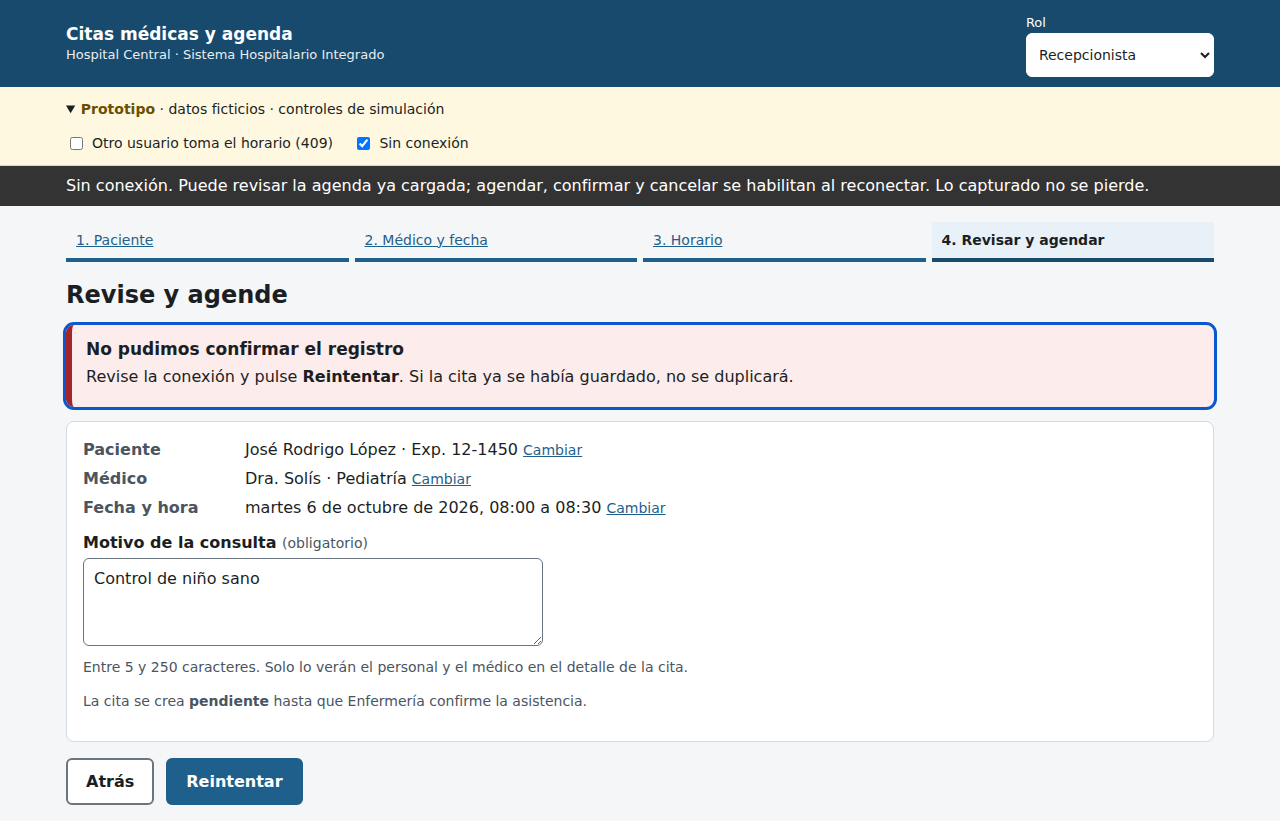
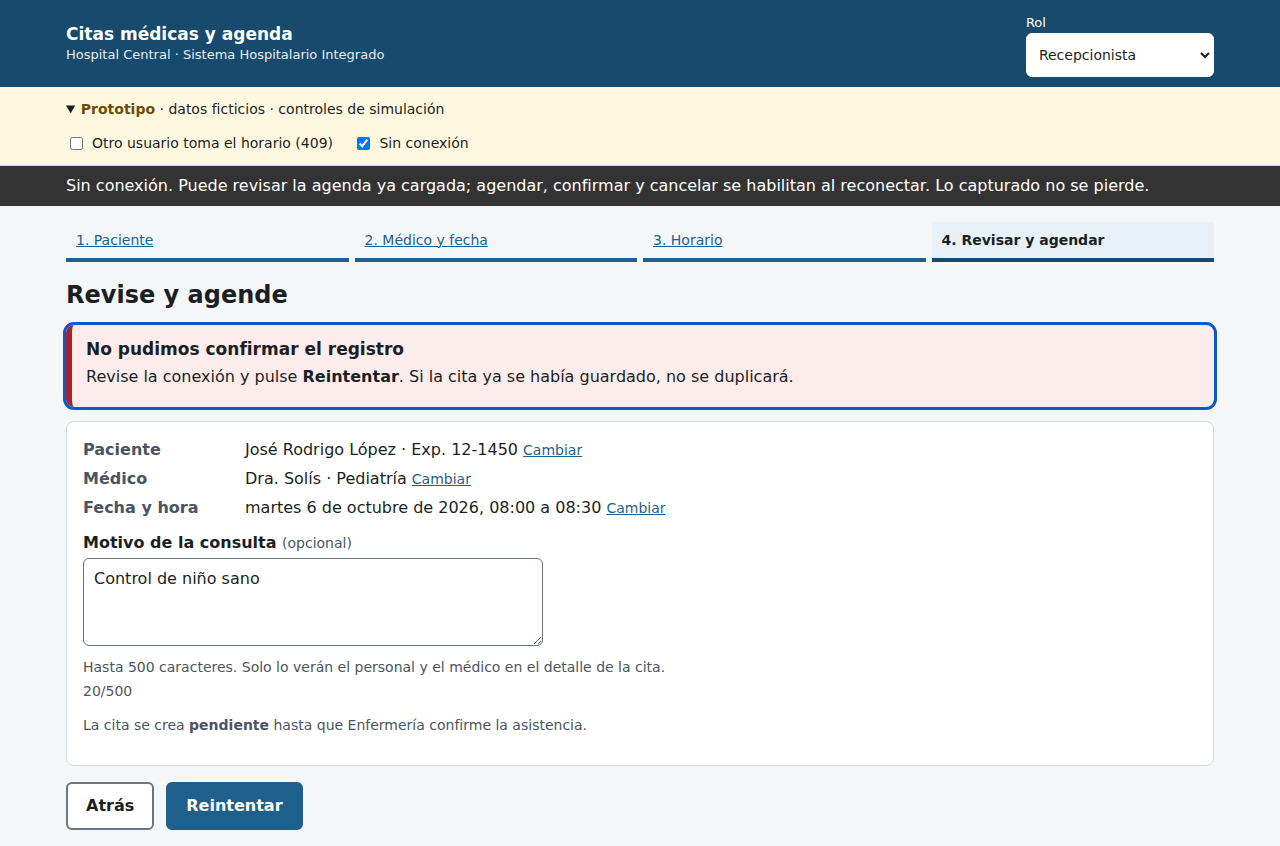
docs(week-11): align with backend rules, add scope, validation and defense guide
Claude-Session: https://claude.ai/code/session_014RXxsV1XqAAnUUTQ3spLue

Changed region(s): [[0.0, 0.0305, 1.0, 0.7308], [0.0625, 0.7613, 0.5312, 0.8222], [0.0625, 0.8526, 0.4688, 0.8831]]

diff --git a/prototipo/pruebas/verificar.py b/prototipo/pruebas/verificar.py
@@ -157,8 +157,19 @@ with sync_playwright() as p:
     inv = pg.get_attribute("#reasonCancel", "aria-invalid")
     desc = pg.get_attribute("#reasonCancel", "aria-describedby") or ""
     txt = pg.inner_text("#reasonCancelErr")
-    registrar("H-08", "El error del motivo está asociado (aria-describedby, aria-invalid) y dice qué falta", inv == "true" and "reasonCancelErr" in desc and "5 caracteres" in txt, txt)
-    pg.click("#btnKeep")
+    registrar("H-08", "El error del motivo está asociado (aria-describedby, aria-invalid) y dice qué falta", inv == "true" and "reasonCancelErr" in desc and "3 caracteres" in txt, txt)
+
+    # Reglas iguales a los FormRequest del backend
+    pg.fill("#reasonCancel", "ab"); pg.click("#btnDoCancel")
+    rechaza_2 = pg.is_visible("#reasonCancelErr")
+    registrar("BACKEND", "Cancelar con 2 caracteres se rechaza (CancelAppointmentRequest pide mínimo 3)", rechaza_2)
+    registrar("BACKEND", "El motivo de cancelación admite hasta 500 caracteres", pg.get_attribute("#reasonCancel", "maxlength") == "500")
+    pg.fill("#reasonCancel", "abc"); pg.click("#btnDoCancel"); pg.wait_for_selector(".alert.ok")
+    registrar("BACKEND", "Cancelar con 3 caracteres se acepta", "Cancelada" in pg.inner_text("main"))
+    hasta_paso4(pg, "Cifuentes", "14:00")
+    registrar("BACKEND", "El motivo de la consulta es opcional y admite hasta 500 caracteres (StoreAppointmentRequest)", pg.get_attribute("#motivo", "maxlength") == "500")
+    pg.click("#n4"); pg.wait_for_selector("#okPanel")
+    registrar("BACKEND", "Se puede agendar sin motivo de consulta", pg.is_visible("#okPanel"))
 
     # H-07: fechas con día de la semana y mes en letras
     pg.goto(URL + "#/cita/182"); cuerpo = pg.inner_text("main")

diff --git a/docs/semana-11-prototipo/DECLARACION_IA.md b/docs/semana-11-prototipo/DECLARACION_IA.md
@@ -1,41 +1,67 @@
 # Declaración de uso de inteligencia artificial — Semana 11
 
+## Identificación
+
 | Dato | Información |
 |---|---|
 | Módulo | ASII-05 — Citas médicas y agenda |
 | Estudiante | Eddy Adolfo Castro Véliz |
 | Código | 1890-23-16857 |
+| GitHub | EddCastro |
+| Issue | #5 |
 | Semana | 11 — Mejores prácticas para diseño móvil/web |
+| Rama | `feature/week-11-prototipo` |
 
 ## Herramienta utilizada
 
-Claude, de Anthropic, como apoyo al análisis, a la redacción y a la generación
-de diagramas y maquetas.
+Claude, de Anthropic, empleada como apoyo al análisis, al diseño, a la
+redacción y a la generación de diagramas, maquetas y scripts de verificación.
 
-## Propósito
+La herramienta trabajó sobre una copia del repositorio en un entorno aislado.
+La revisión, la publicación de las ramas y la apertura de los pull requests
+corresponden al estudiante.
+
+## Propósito del uso
 
 - Completar el prototipo navegable con enrutamiento por pasos, roles y simulación de errores.
 - Escribir el script de verificación con Playwright y axe-core ligado al backlog de la semana 9.
 - Generar las capturas desktop y móvil y el mapa de navegación.
 
+## Prompts relevantes
+
+1. Construir un prototipo navegable desktop y móvil del flujo con camino feliz y un error crítico de concurrencia.
+2. Mantener los roles de la matriz de la semana 5 y los estados del dominio.
+3. Escribir una verificación automática por cada criterio verificable del backlog de la semana 9.
+4. Comprobar que las reglas de los campos coincidan con los FormRequest del backend.
+5. Generar el mapa de navegación y las capturas de cada paso en ambos tamaños.
+
 ## Contenido aceptado
 
-- El error de concurrencia (409) como error crítico del prototipo.
+- El error de concurrencia como error crítico del prototipo.
 - La trampa de foco en los diálogos, agregada después de que la verificación detectara que Tab salía del diálogo.
-- La verificación automatizada como evidencia de cada criterio del backlog.
+- La verificación automatizada como evidencia de cada criterio del backlog y de las reglas del backend.
 
 ## Contenido modificado o rechazado
 
 - Se descartó usar Figma u otra herramienta externa: un prototipo HTML se abre sin cuentas y se puede verificar automáticamente.
 - Se descartó conectar el prototipo al backend Laravel: la consigna pide un prototipo del flujo, no la integración.
-- Se descartó ocultar el límite del control nativo de fecha; se documenta y se compensa con la fecha escrita en letras.
+- Se descartó presentar el 409 como respuesta actual del backend; se documenta como diseño propuesto.
+
+## Errores detectados y corregidos
+
+| Hallazgo | Corrección |
+|---|---|
+| La primera verificación falló en H-09: con Tab el foco salía del diálogo de cancelación. | Se agregó la trampa de foco en los diálogos; la verificación pasó a cumplir. |
+| La comprobación de H-01 solo veía citas pendientes porque la agenda mostraba el día de la cita nueva. | La prueba cambia a la fecha con los tres estados antes de comprobar. |
+| Las capturas de escritorio cortaban los botones inferiores. | Se capturan a página completa. |
 
 ## Validación humana
 
-El estudiante recorrió el prototipo en escritorio y en teléfono con los tres roles, ejecutó la verificación automatizada (35 de 35 criterios) y revisó cada captura.
+El estudiante recorrió el prototipo en escritorio y en teléfono con los tres roles, ejecutó la verificación automatizada (40 de 40 criterios, código de salida `0`), validó el mapa con `-checkonly` (código de salida `0`) y revisó cada captura.
 
 ## Responsabilidad académica
 
-Las decisiones de diseño y la preparación para la defensa oral corresponden al
-estudiante, quien asume la responsabilidad académica sobre el contenido
+La inteligencia artificial se empleó como herramienta de apoyo. El diseño, las
+decisiones, la validación y la preparación para la defensa oral corresponden
+al estudiante, quien asume la responsabilidad académica sobre el contenido
 entregado.

diff --git a/docs/semana-11-prototipo/verificacion.md b/docs/semana-11-prototipo/verificacion.md
@@ -5,7 +5,7 @@ El prototipo se verificó con un script automatizado
 usa Playwright para recorrerlo y axe-core para auditar WCAG. Cada criterio
 verificable del backlog de la semana 9 tiene al menos una comprobación.
 
-**Resultado: 35 de 35 criterios cumplidos.** El detalle generado por el script
+**Resultado: 40 de 40 criterios cumplidos.** El detalle generado por el script
 está en [`verificacion-resultados.md`](verificacion-resultados.md).
 
 ## 1. Cierre del backlog de la semana 9
@@ -19,7 +19,7 @@ está en [`verificacion-resultados.md`](verificacion-resultados.md).
 | H-09 foco del diálogo | P2 | Foco inicial en el motivo, trampa de Tab, Escape, retorno del foco | Foco inicial, 8 Tab dentro, Escape devuelve el foco a "Cancelar cita" | Cerrado |
 | H-05 éxito temporal | P2 | Panel persistente con código y `role="status"` | Visible 6 s después (antes duraba 5 s) | Cerrado |
 | H-02 contraste ocupado | P2 | Texto `#595959` sobre `#eceff2`, borde punteado, palabra "Ocupado" | Texto 6.07:1, borde 4.69:1 | Cerrado |
-| H-08 obligatorio genérico | P3 | "(obligatorio)" en texto; error específico con `aria-describedby` y `aria-invalid` | Mensaje "…al menos 5 caracteres", asociado al campo | Cerrado |
+| H-08 obligatorio genérico | P3 | "(obligatorio)" u "(opcional)" en texto; error específico con `aria-describedby` y `aria-invalid` | Mensaje "…al menos 3 caracteres", asociado al campo | Cerrado |
 | H-07 fecha ambigua | P3 | "martes 6 de octubre de 2026" / "mar 6 oct 2026" | Ninguna fecha dd/mm/aaaa en el texto | Cerrado |
 | H-10 ayuda sin nombre | P3 | Botón "¿Por qué no veo un horario?" | Abre con Enter | Cerrado |
 | H-11 borde secundario | P3 | Borde `#6b7580` | 4.69:1 | Cerrado |
@@ -39,7 +39,26 @@ fecha se escribe la fecha completa en letras.
 Coincide con la matriz de permisos del contrato de API (semana 5) y con los
 user flows (semana 8).
 
-## 3. Consistencia de estados
+## 3. Consistencia con las reglas del backend
+
+La interfaz no pide más ni menos que el servidor. Las reglas se tomaron de los
+`FormRequest` de la rama `feature/asii-05-semana-06-parcial-eddcastro`.
+
+| Regla del backend | Comportamiento del prototipo | Verificado |
+|---|---|:-:|
+| Motivo de cancelación obligatorio, 3 a 500 caracteres (`CancelAppointmentRequest`) | Rechaza 2 caracteres, acepta 3, límite 500 | Sí |
+| Motivo de consulta opcional, máximo 500 (`StoreAppointmentRequest`) | Se agenda sin motivo; límite 500 con contador | Sí |
+| Duración de 5 a 480 minutos | Ofrece 15, 30, 45 y 60 | Por diseño |
+| Fecha futura (RN-01) | El calendario no admite fechas pasadas | Por diseño |
+| Horario ocupado | Muestra el conflicto como 409 `APPOINTMENT_SLOT_TAKEN` | Ver nota |
+
+**Nota sobre el 409.** Hoy el backend responde **422** con solo `message`
+cuando el horario está ocupado. El prototipo muestra el comportamiento del
+diseño propuesto en la semana 7 (`ErrorMapper` con los códigos del contrato de
+la semana 5). La experiencia del usuario sería la misma con el 422 actual si
+la interfaz reconoce el mensaje, pero el diseño no depende del texto.
+
+## 4. Consistencia de estados
 
 | Estado | Se ve igual en | Transiciones permitidas |
 |---|---|---|
@@ -51,7 +70,7 @@ Las reglas son las del dominio (`Appointment::confirm()` y `cancel()`): una
 cita cancelada no se confirma ni se cancela de nuevo, y una confirmada no se
 confirma otra vez.
 
-## 4. Accesibilidad
+## 5. Accesibilidad
 
 | Verificación | Resultado |
 |---|---|
@@ -64,14 +83,14 @@ confirma otra vez.
 | Movimiento reducido | Animación del esqueleto desactivada con `prefers-reduced-motion` |
 | Errores de JavaScript durante el recorrido | 0 en escritorio y móvil |
 
-## 5. Conexión limitada
+## 6. Conexión limitada
 
 | Verificación | Resultado |
 |---|---|
 | Sin conexión: botón "Reintentar" y motivo conservado | Cumple |
 | Al reconectar y reintentar se crea exactamente una cita | Cumple (1 cita) |
 
-## 6. Mejores prácticas aplicadas
+## 7. Mejores prácticas aplicadas
 
 | Práctica | Aplicación |
 |---|---|

diff --git a/docs/semana-11-prototipo/GUIA_DEFENSA_ORAL.md b/docs/semana-11-prototipo/GUIA_DEFENSA_ORAL.md
@@ -1,0 +1,92 @@
+# Guía de defensa oral — Semana 11, Prototipo navegable
+
+## Datos generales
+
+- **Módulo:** ASII-05 — Citas médicas y agenda
+- **Estudiante:** Eddy Adolfo Castro Véliz
+- **Prototipo:** `prototipo/index.html`
+
+## 1. ¿Qué se entregó?
+
+Un prototipo navegable en HTML que funciona en escritorio y en teléfono, su
+mapa de navegación, capturas de cada paso del camino feliz y del error
+crítico, y una verificación automatizada con 40 criterios.
+
+## 2. ¿Por qué HTML y no Figma?
+
+La consigna del proyecto acepta "Figma, Canva, Excalidraw o equivalente". Un
+prototipo HTML se abre sin cuenta, funciona en el teléfono real, tiene
+navegación y teclado reales y se puede verificar de forma automática. Figma no
+permite comprobar con un script que el foco o el contraste sean correctos.
+
+## 3. ¿Cuál es el camino feliz?
+
+Agenda → Nueva cita → paciente → médico y fecha → horario → revisar →
+Agendar → panel de éxito con el código de la cita en estado pendiente.
+
+## 4. ¿Cuál es el error crítico y por qué ese?
+
+Que otro usuario reserve el mismo horario entre la consulta y el envío. Es el
+error que el módulo previene en el backend con el bloqueo y el índice de la
+semana 6; si la interfaz lo muestra mal, el usuario no se entera o repite el
+intento sobre un horario que ya no existe.
+
+## 5. ¿Cómo se simula?
+
+Con la casilla "Otro usuario toma el horario (409)" de la franja de controles
+del prototipo. Al pulsar Agendar, el prototipo registra una cita ajena en ese
+horario y responde con el conflicto.
+
+## 6. ¿El backend responde 409 hoy?
+
+No. Hoy responde 422 con un mensaje. El prototipo muestra el diseño propuesto
+en la semana 7, donde `ErrorMapper` emite 409 `APPOINTMENT_SLOT_TAKEN` según el
+contrato de la semana 5. Se declara en `verificacion.md` para no presentarlo
+como implementado.
+
+## 7. ¿Cómo se mantiene la consistencia de roles?
+
+El selector de rol cambia lo que se ve: la Recepcionista agenda, confirma y
+cancela; la Enfermera solo confirma y entra con el filtro "Pendientes"; el
+Médico ve su agenda en solo lectura. Es la matriz de la semana 5 y la
+verificación lo comprueba.
+
+## 8. ¿Cómo se comprobó la accesibilidad?
+
+Con axe-core en ocho pantallas (cuatro por tamaño), 0 infracciones A y AA;
+recorriendo el flujo completo solo con teclado; midiendo el contraste en el
+navegador; y comprobando que a 320 px no haya desplazamiento horizontal.
+
+## 9. ¿Qué pasó con los once hallazgos de la semana 9?
+
+Los once quedaron cerrados y cada uno tiene al menos una comprobación
+automática. Uno de ellos, la trampa de foco del diálogo (H-09), falló en la
+primera verificación y se corrigió antes de entregar.
+
+## 10. ¿Las reglas de los campos son las del backend?
+
+Sí. El motivo de cancelación pide de 3 a 500 caracteres, como
+`CancelAppointmentRequest`, y el motivo de la consulta es opcional hasta 500,
+como `StoreAppointmentRequest`. La verificación incluye cinco comprobaciones
+de esas reglas.
+
+## Modificación práctica
+
+Podrían pedir agregar el rol Admin al selector. En `prototipo/index.html`:
+
+    <option value="admin">Admin</option>
+
+y en el objeto de permisos:
+
+    admin: { crear: true, confirmar: true, cancelar: true },
+
+Luego se agrega una comprobación en `prototipo/pruebas/verificar.py`
+(sección ROLES) y se ejecuta la verificación.
+
+## Resumen para exposición
+
+El prototipo recorre el flujo completo en escritorio y móvil con los tres
+roles. El error crítico es el conflicto de concurrencia, y la interfaz dice
+qué horario se perdió sin perder lo capturado. Cada corrección de la semana 9
+y cada regla de los formularios del backend tiene una comprobación automática:
+40 de 40 cumplidas.

diff --git a/docs/semana-11-prototipo/README.md b/docs/semana-11-prototipo/README.md
@@ -8,6 +8,7 @@ Módulo **ASII-05 — Citas médicas y agenda**.
 | Código | 1890-23-16857 |
 | GitHub | EddCastro |
 | Correo | ecastrov5@miumg.edu.gt |
+| Issue | #5 |
 | Rama | `feature/week-11-prototipo` |
 
 ## Tarea
@@ -26,6 +27,14 @@ consistencia de roles, estados y accesibilidad.
 
 Es HTML, CSS y JavaScript sin librerías. Los datos son ficticios y viven en
 memoria: al recargar la página se reinician.
+
+## Estado
+
+El prototipo **no está conectado al backend**: simula sus respuestas. Las
+reglas de los campos son las mismas de los `FormRequest` de Laravel, y el
+error de horario ocupado se muestra con el código 409 del diseño propuesto en
+la semana 7 (hoy el backend responde 422). Ver
+[`verificacion.md`](verificacion.md), sección 3.
 
 ### Cómo recorrerlo
 
@@ -47,6 +56,7 @@ memoria: al recargar la página se reinician.
 | Capturas desktop y móvil del camino feliz | [`capturas/`](capturas) — pasos 01 a 07 |
 | Capturas desktop y móvil del error crítico | [`capturas/`](capturas) — pasos 08 a 10 |
 | Consistencia de roles, estados y accesibilidad | [`verificacion.md`](verificacion.md) |
+| Guía de defensa oral | [`GUIA_DEFENSA_ORAL.md`](GUIA_DEFENSA_ORAL.md) |
 | Declaración de IA | [`DECLARACION_IA.md`](DECLARACION_IA.md) |
 
 ## Mapa de navegación
@@ -99,6 +109,33 @@ el usuario.
 Detalle de cita (11), validación del motivo de cancelación (12), cita
 cancelada (13), sin conexión (14) y vista de la Enfermera (15), en ambos
 tamaños.
+
+## Alcance de la entrega
+
+Incluye:
+
+- Prototipo navegable del flujo asignado en escritorio y móvil.
+- Camino feliz y error crítico de concurrencia, más cancelación, conexión
+  limitada y vista por rol.
+- Mapa de navegación y capturas de cada paso.
+- Verificación automatizada de los criterios del backlog de la semana 9 y de
+  las reglas del backend.
+
+No incluye:
+
+- Conexión con la API Laravel.
+- Reagendamiento, lista de espera ni notificaciones.
+- Diseño visual definitivo del sistema (ASII-26).
+
+## Validación
+
+```powershell
+python prototipo/pruebas/verificar.py
+java -jar "$HOME\Tools\PlantUML\plantuml.jar" -checkonly ".\docs\semana-11-prototipo\*.puml"
+```
+
+La verificación terminó con **40 de 40 criterios cumplidos** y código de
+salida `0`; PlantUML terminó con código de salida `0`.
 
 ## Reproducir capturas y verificación
 

diff --git a/README.md b/README.md
@@ -100,12 +100,14 @@ que lo evidencian.
 
 ### Semana 7 — Componentes y refactorización
 
-Componentes backend y frontend del flujo con sus contratos de entrada y
-salida. Refactor conceptual del punto de mayor acoplamiento,
-`AvailabilityRepository::isAvailable()`, que mezclaba jornada del médico,
-regla de cruce en SQL, estados que ocupan agenda y concurrencia implícita:
-queda dividido en `SlotPolicy` + `TimeSlot` en el dominio y en puertos de
-lectura y de atomicidad explícitos.
+Componentes backend (existentes) y frontend (propuestos) del flujo, con sus
+contratos de entrada, salida y error. Refactor conceptual sobre el código
+Laravel del punto de mayor acoplamiento,
+`EloquentAppointmentRepository::hasOverlap()`, que además de consultar
+bloqueaba la agenda solo si detectaba una transacción abierta. El análisis
+encontró también que confirmar y cancelar se ejecutan sin transacción. El
+refactor hace explícito el bloqueo, deja la consulta sin efectos, protege las
+transiciones y tipa los errores.
 
 ### Semana 8 — Experiencia de usuario
 
@@ -131,8 +133,8 @@ limitada en Enfermería.
 Prototipo HTML en [`prototipo/index.html`](prototipo/index.html), desktop y
 móvil, con camino feliz y error crítico de concurrencia (409), mapa de
 navegación y capturas. Una verificación automatizada con Playwright y
-axe-core confirma 35 de 35 criterios, entre ellos el cierre de los once
-hallazgos de la semana 9.
+axe-core confirma 40 de 40 criterios, entre ellos el cierre de los once
+hallazgos de la semana 9 y las reglas de los formularios del backend.
 
 En línea: https://eddcastro.github.io/micro-his-citas-medicas-agenda/prototipo/
 

diff --git a/docs/semana-11-prototipo/verificacion-resultados.md b/docs/semana-11-prototipo/verificacion-resultados.md
@@ -2,7 +2,7 @@
 
 Generado por `python prototipo/pruebas/verificar.py` (Playwright + axe-core).
 
-**35 de 35 criterios cumplidos.**
+**40 de 40 criterios cumplidos.**
 
 | Referencia | Criterio | Resultado | Detalle |
 |---|---|---|---|
@@ -29,7 +29,12 @@ Generado por `python prototipo/pruebas/verificar.py` (Playwright + axe-core).
 | H-09 | Foco inicial en el motivo | Cumple | reasonCancel |
 | H-09 | Tab no sale del diálogo abierto | Cumple |  |
 | H-09 | Escape cierra y el foco vuelve a "Cancelar cita" | Cumple | bCancelar |
-| H-08 | El error del motivo está asociado (aria-describedby, aria-invalid) y dice qué falta | Cumple | Escriba el motivo de la cancelación: al menos 5 caracteres. |
+| H-08 | El error del motivo está asociado (aria-describedby, aria-invalid) y dice qué falta | Cumple | Escriba el motivo de la cancelación: al menos 3 caracteres. |
+| BACKEND | Cancelar con 2 caracteres se rechaza (CancelAppointmentRequest pide mínimo 3) | Cumple |  |
+| BACKEND | El motivo de cancelación admite hasta 500 caracteres | Cumple |  |
+| BACKEND | Cancelar con 3 caracteres se acepta | Cumple |  |
+| BACKEND | El motivo de la consulta es opcional y admite hasta 500 caracteres (StoreAppointmentRequest) | Cumple |  |
+| BACKEND | Se puede agendar sin motivo de consulta | Cumple |  |
 | H-07 | La fecha visible incluye día de la semana y mes en letras | Cumple |  |
 | H-07 | No aparecen fechas numéricas dd/mm/aaaa en el texto | Cumple |  |
 | H-10 | La ayuda es un botón con texto y abre con teclado | Cumple |  |
